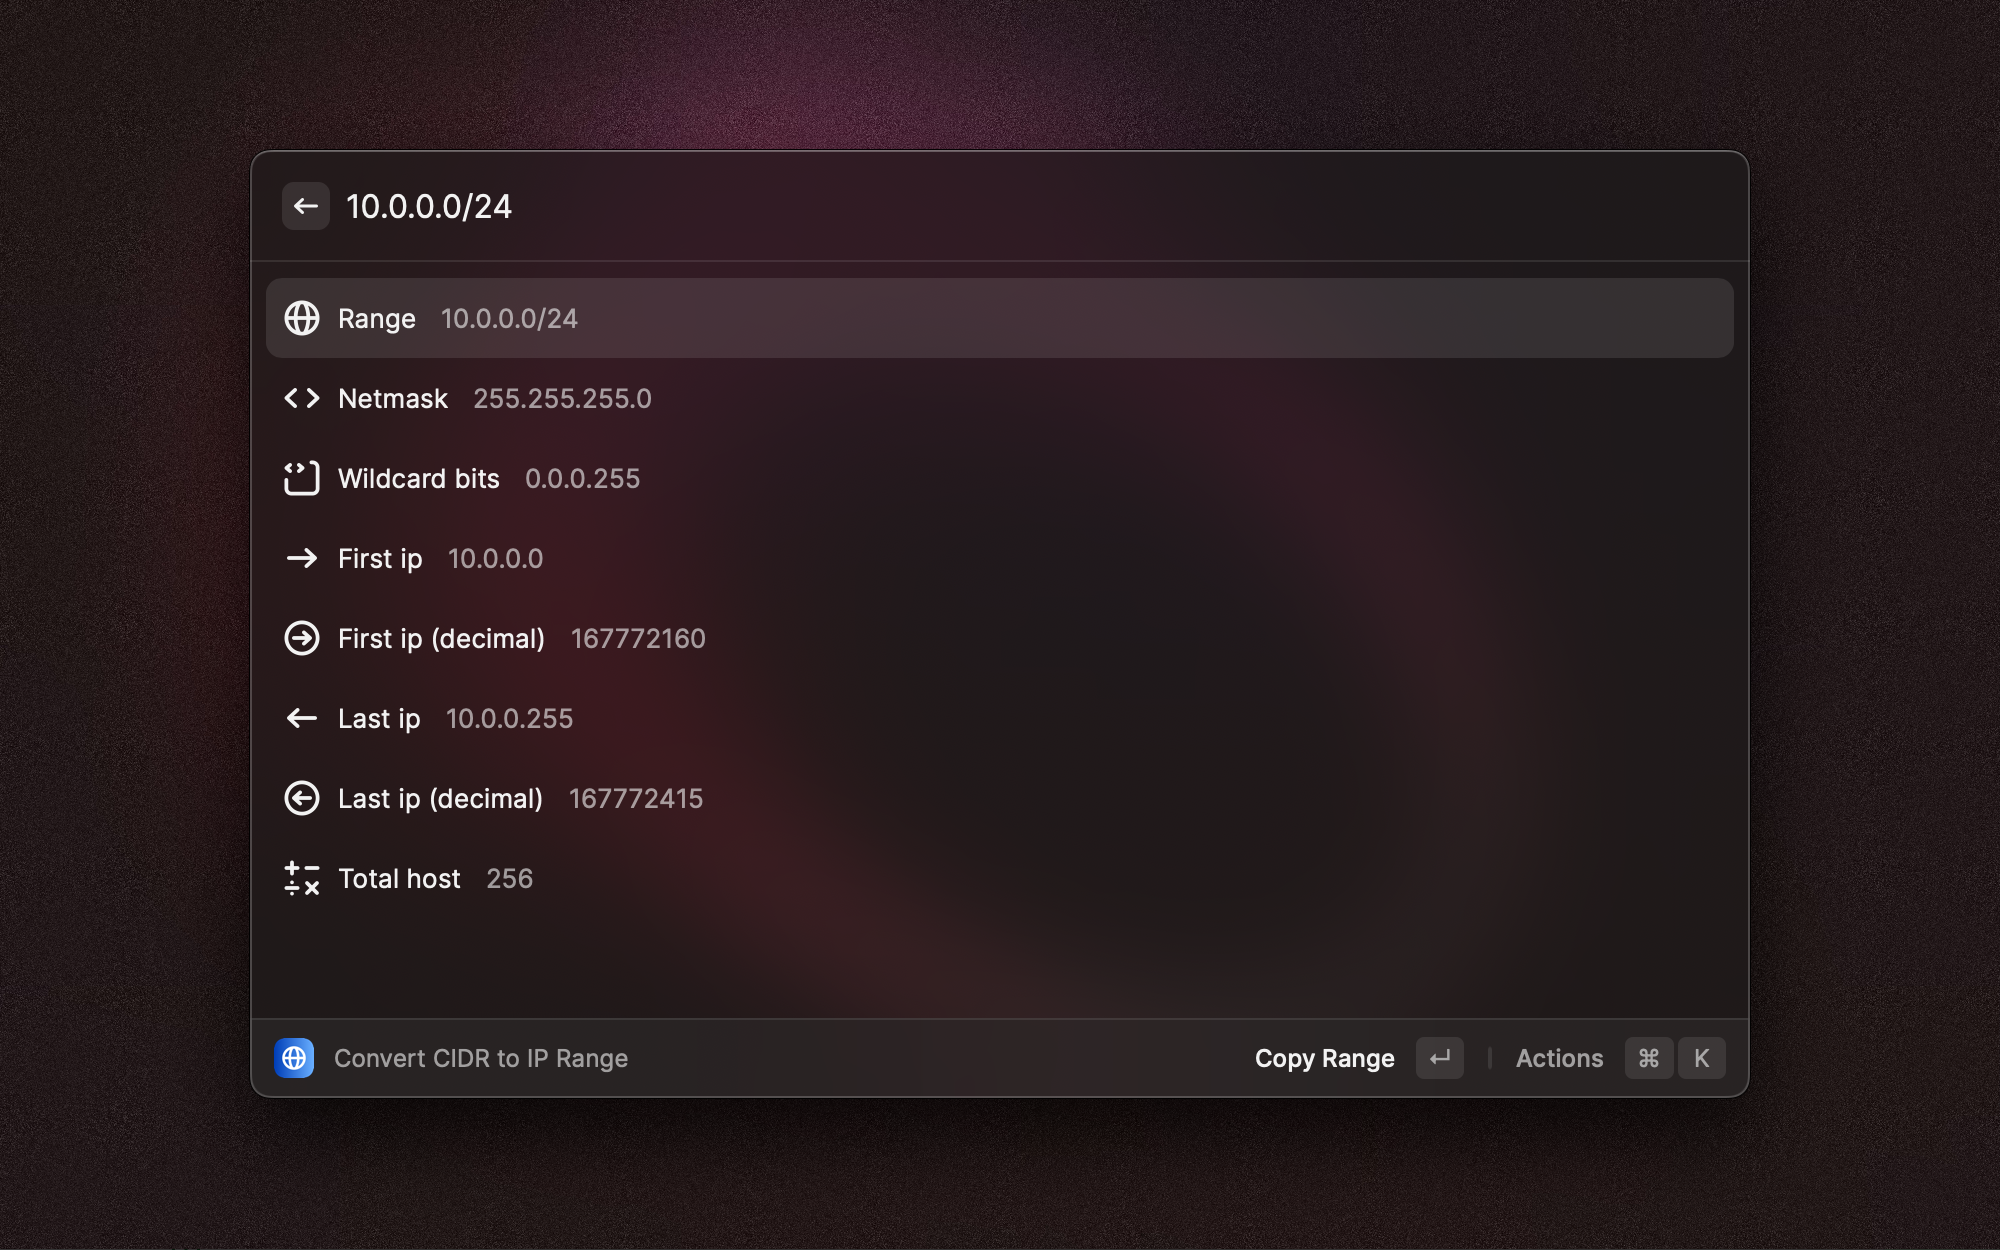
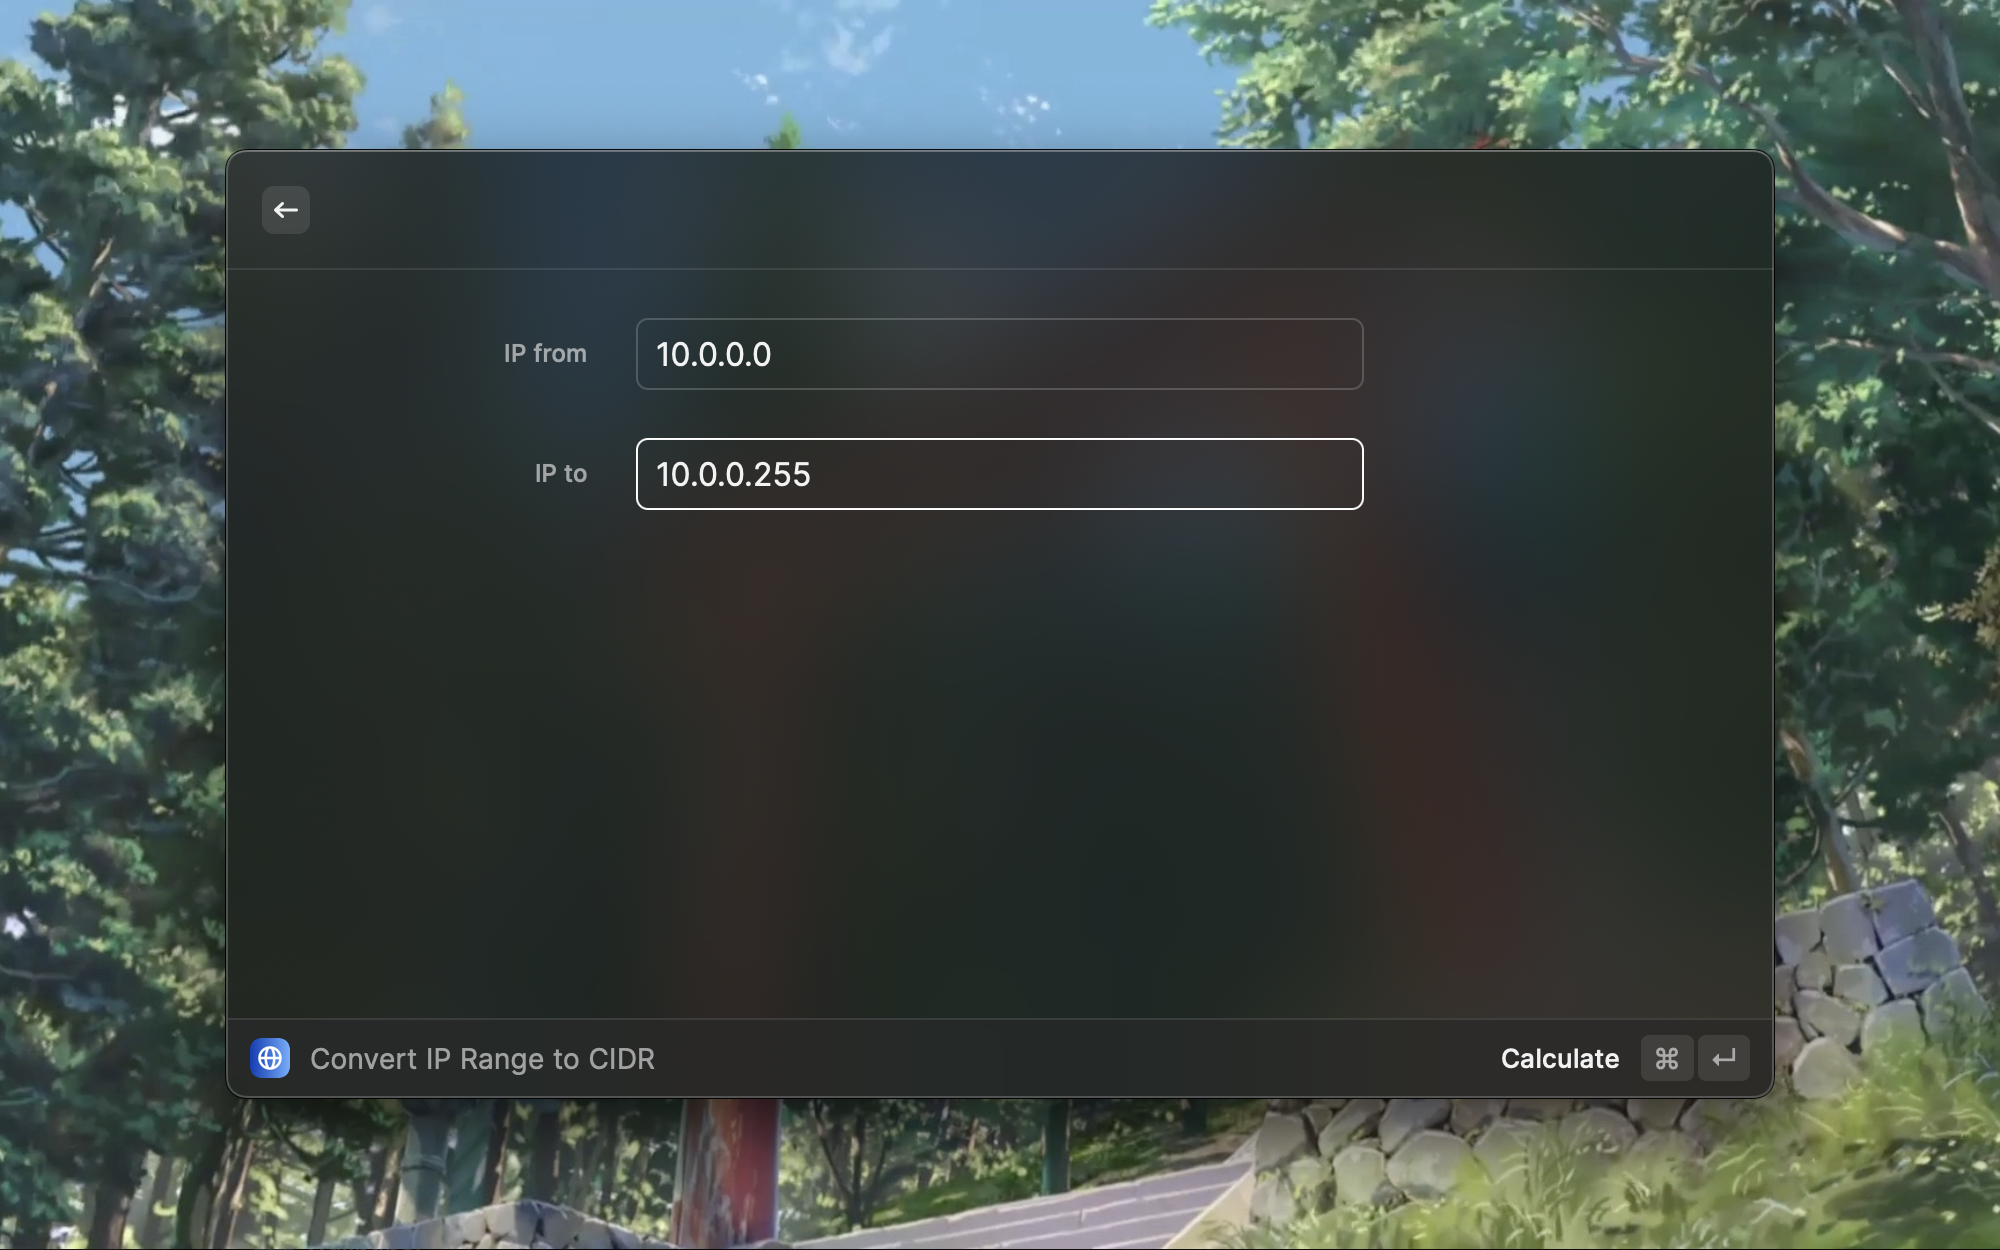
docs: add documents

diff --git a/README.md b/README.md
@@ -1,12 +1,16 @@
 # CIDR to IPv4 info
 
 ![preview](./metadata/cidr-1.png)
+![preview](./metadata/cidr-2.png)
+![preview](./metadata/cidr-3.png)
 
-### description
+## description
 
 Input one CIDR string, and it will help you convert it to more detailed info.
 
-### Example
+## Example
+
+### Convert CIDR to IP range
 
 input: `10.0.0.0/24`
 
@@ -22,3 +26,18 @@ output:
 | `lastIp`       | `10.0.0.255`    |
 | `lastIpInt`    | `167772415`     |
 | `totalHost`    | `256`           |
+
+
+### Convert IP range to CIDR
+
+input: 
+- `10.0.0.0`
+- `10.0.0.255`
+
+output:
+
+```markdown
+## Result:
+
+- 10.0.0.0/32
+```

diff --git a/CHANGELOG.md b/CHANGELOG.md
@@ -1,5 +1,9 @@
 # CIDR Changelog
 
+## [Third Version] - 2023-09-16
+
+- Support IP to CIDR range ability
+
 ## [Second Version] - 2023-06-16
 
 - Downgrade the raycast version to 1.47.3
